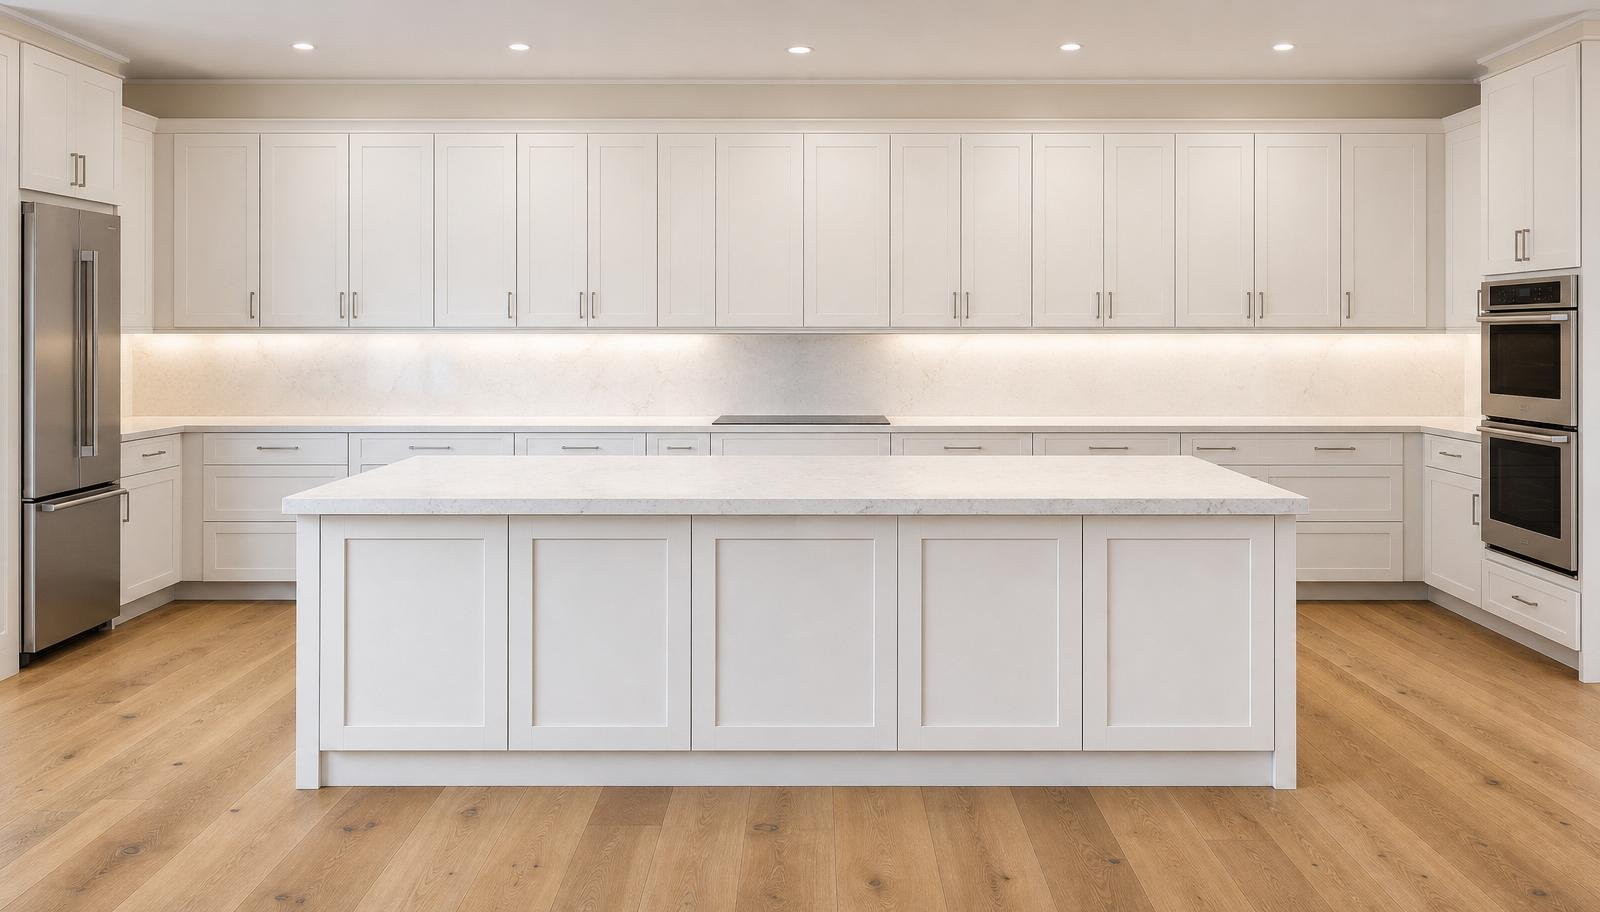
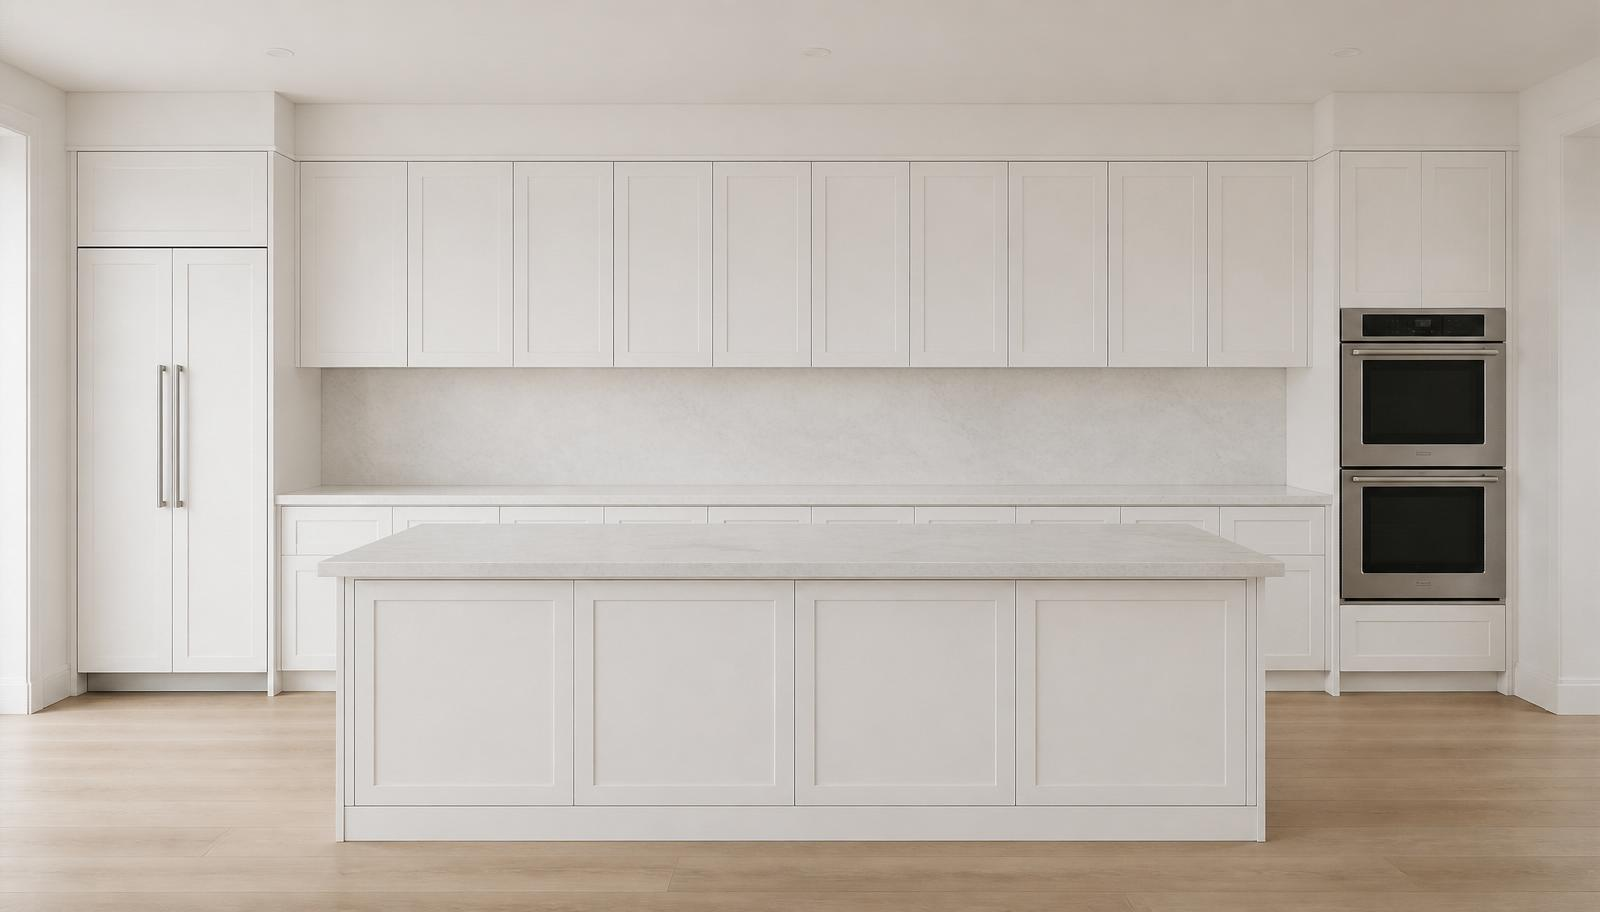
Changes

diff --git a/src/components/RoomPreview.tsx b/src/components/RoomPreview.tsx
@@ -1,8 +1,8 @@
 import { useState } from "react";
-import { Eye, Layers3 } from "lucide-react";
+import { Eye } from "lucide-react";
 import bathClassic from "@/assets/bath-classic.jpg";
 import bathMoody from "@/assets/bath-moody.jpg";
-import kitchenBase from "@/assets/kitchen-true-base.jpg";
+import kitchenBase from "@/assets/kitchen-scene-v2.jpg";
 import {
   BATHROOM_CATEGORIES,
   KITCHEN_CATEGORIES,
@@ -11,7 +11,7 @@ import {
   type Product,
   type Room,
 } from "@/lib/catalog";
-import { KitchenPhotoScene, REGIONS } from "@/components/KitchenPhotoScene";
+import { KitchenPhotoScene } from "@/components/KitchenPhotoScene";
 import { useStudio } from "@/lib/store";
 
 export function roomImage(room: Room, selections: Record<string, string>) {
@@ -24,20 +24,14 @@ function KitchenPreview({
   selections,
   className,
   hideChips,
-  enableMaskQA,
   changeLabel,
 }: {
   selections: Record<string, string>;
   className: string;
   hideChips?: boolean;
-  enableMaskQA?: boolean;
   changeLabel?: string;
 }) {
   const [showBase, setShowBase] = useState(false);
-  const [debug, setDebug] = useState(false);
-  const [debugVisible, setDebugVisible] = useState<Record<string, boolean>>(
-    Object.fromEntries(REGIONS.map((r) => [r.id, true])),
-  );
   const perimeterVisualFinishId = useStudio((s) => s.perimeterVisualFinishId);
   const islandVisualFinishId = useStudio((s) => s.islandVisualFinishId);
 
@@ -47,9 +41,6 @@ function KitchenPreview({
     return { catLabel: c.label, product: p };
   }).filter((x): x is { catLabel: string; product: Product } => !!x);
 
-  const toggleAll = (v: boolean) =>
-    setDebugVisible(Object.fromEntries(REGIONS.map((r) => [r.id, v])));
-
   return (
     <div className={`relative overflow-hidden rounded-2xl border border-border bg-muted ${className}`}>
       <div className="relative w-full">
@@ -58,8 +49,6 @@ function KitchenPreview({
           perimeterVisualFinishId={perimeterVisualFinishId}
           islandVisualFinishId={islandVisualFinishId}
           before={showBase}
-          debug={enableMaskQA && debug}
-          debugVisible={debugVisible}
         />
 
         <div className="absolute left-3 top-3 max-w-[70%] rounded-full bg-background/90 px-3 py-1.5 text-[11px] font-medium text-foreground shadow-sm backdrop-blur">
@@ -87,48 +76,7 @@ function KitchenPreview({
           >
             Before
           </button>
-          {enableMaskQA && (
-            <button
-              onClick={() => setDebug((v) => !v)}
-              aria-pressed={debug}
-              title="Internal QA — visualize traced regions"
-              className={`inline-flex min-h-8 items-center gap-1.5 rounded-full px-3 py-1 text-[10px] uppercase tracking-widest backdrop-blur transition ${
-                debug ? "bg-foreground text-background" : "bg-background/85 text-muted-foreground hover:text-foreground"
-              }`}
-            >
-              <Layers3 className="h-3 w-3" /> Region QA
-            </button>
-          )}
         </div>
-
-        {enableMaskQA && debug && (
-          <div className="pointer-events-auto absolute left-3 top-14 flex flex-col gap-1 rounded-md bg-background/90 p-2 text-[10px] backdrop-blur">
-            <div className="mb-1 flex items-center justify-between gap-2">
-              <span className="font-semibold uppercase tracking-widest">Region QA</span>
-              <div className="flex gap-1">
-                <button className="rounded border border-border px-1.5 py-0.5" onClick={() => toggleAll(true)}>
-                  All
-                </button>
-                <button className="rounded border border-border px-1.5 py-0.5" onClick={() => toggleAll(false)}>
-                  None
-                </button>
-              </div>
-            </div>
-            {REGIONS.map((r) => (
-              <label key={r.id} className="flex items-center gap-2 cursor-pointer">
-                <input
-                  type="checkbox"
-                  checked={!!debugVisible[r.id]}
-                  onChange={(e) =>
-                    setDebugVisible((prev) => ({ ...prev, [r.id]: e.target.checked }))
-                  }
-                />
-                <span className="h-3 w-3 rounded-sm" style={{ background: r.debugColor }} />
-                {r.label}
-              </label>
-            ))}
-          </div>
-        )}
       </div>
 
       {!hideChips && chips.length > 0 && (
@@ -282,13 +230,13 @@ export function RoomPreview({
   selections,
   className = "",
   hideChips,
-  enableMaskQA,
   changeLabel,
 }: {
   room: Room;
   selections: Record<string, string>;
   className?: string;
   hideChips?: boolean;
+  /** Deprecated: mask QA is no longer surfaced. Ignored. */
   enableMaskQA?: boolean;
   changeLabel?: string;
 }) {
@@ -297,7 +245,6 @@ export function RoomPreview({
       selections={selections}
       className={className}
       hideChips={hideChips}
-      enableMaskQA={enableMaskQA}
       changeLabel={changeLabel}
     />
   ) : (
